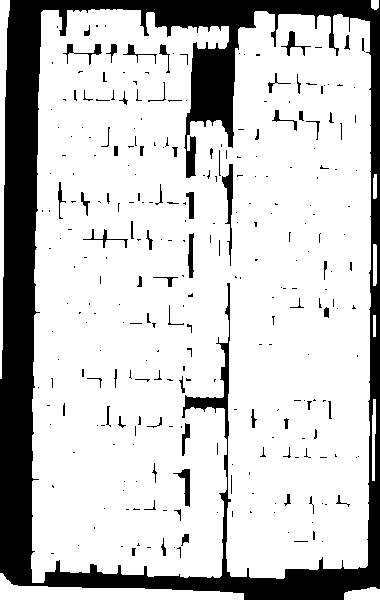
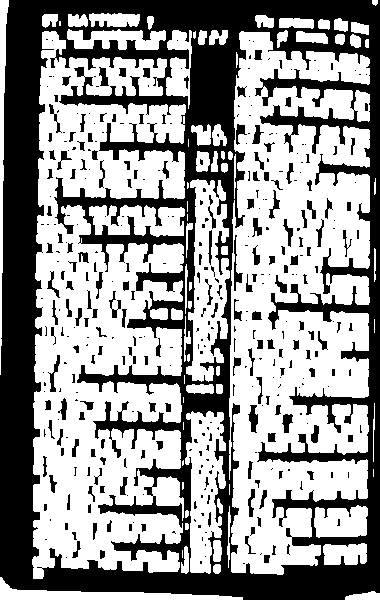
data extraction

diff --git a/extraction.py b/extraction.py
@@ -6,37 +6,28 @@ image = cv2.imread('1.1.jpg')
 
 # convertion to gray scale reduces complexity & noise, thus OCR works better
 gray = cv2.cvtColor(image, cv2.COLOR_BGR2GRAY)
-
 cv2.imwrite('temp/index_gray.png', gray)
-text = pytesseract.image_to_string(gray)
-print(text)
+
 
 # blur the image
 blur = cv2.GaussianBlur(gray, (7,7), 0)
-
 cv2.imwrite('temp/index_blur.png', blur)
-text = pytesseract.image_to_string(blur)
-print(text)
+
 
 # Use Threshold = color inversion = identifying cols
 thresh = cv2.threshold(blur, 0, 255, cv2.THRESH_BINARY_INV + cv2.THRESH_OTSU)[1]
-
 cv2.imwrite('temp/index_thresh.png', thresh)
-text = pytesseract.image_to_string(thresh)
-print(text)
+
 
 # kernel
-kernel = cv2.getStructuringElement(cv2.MORPH_RECT, (5, 30))
-
+kernel = cv2.getStructuringElement(cv2.MORPH_RECT, (1, 5))
 cv2.imwrite('temp/index_kernel.png', kernel)
 
 
 # dilate
 dilate = cv2.dilate(thresh, kernel, iterations=1)
-
 cv2.imwrite('temp/index_dilate.png', dilate)
-text = pytesseract.image_to_string(dilate)
-print(text)
+
 
 # contours
 cnts = cv2.findContours(dilate, cv2.RETR_EXTERNAL, cv2.CHAIN_APPROX_SIMPLE)
@@ -47,8 +38,7 @@ cnts = sorted(cnts, key=lambda x: cv2.boundingRect(x)[0])
 
 for c in cnts:
     x, y, w,h = cv2.boundingRect(c)
-    cv2.rectangle(image, (x, y), (x+w, y+h), (36, 255, 12), 2) 
+    if h>200 and w>20:
+         cv2.rectangle(image, (x, y), (x+w, y+h), (36, 255, 12), 2) 
 
 cv2.imwrite('temp/index_bbox.png', image)
-# text = pytesseract.image_to_string(cnts)
-# print(text)
